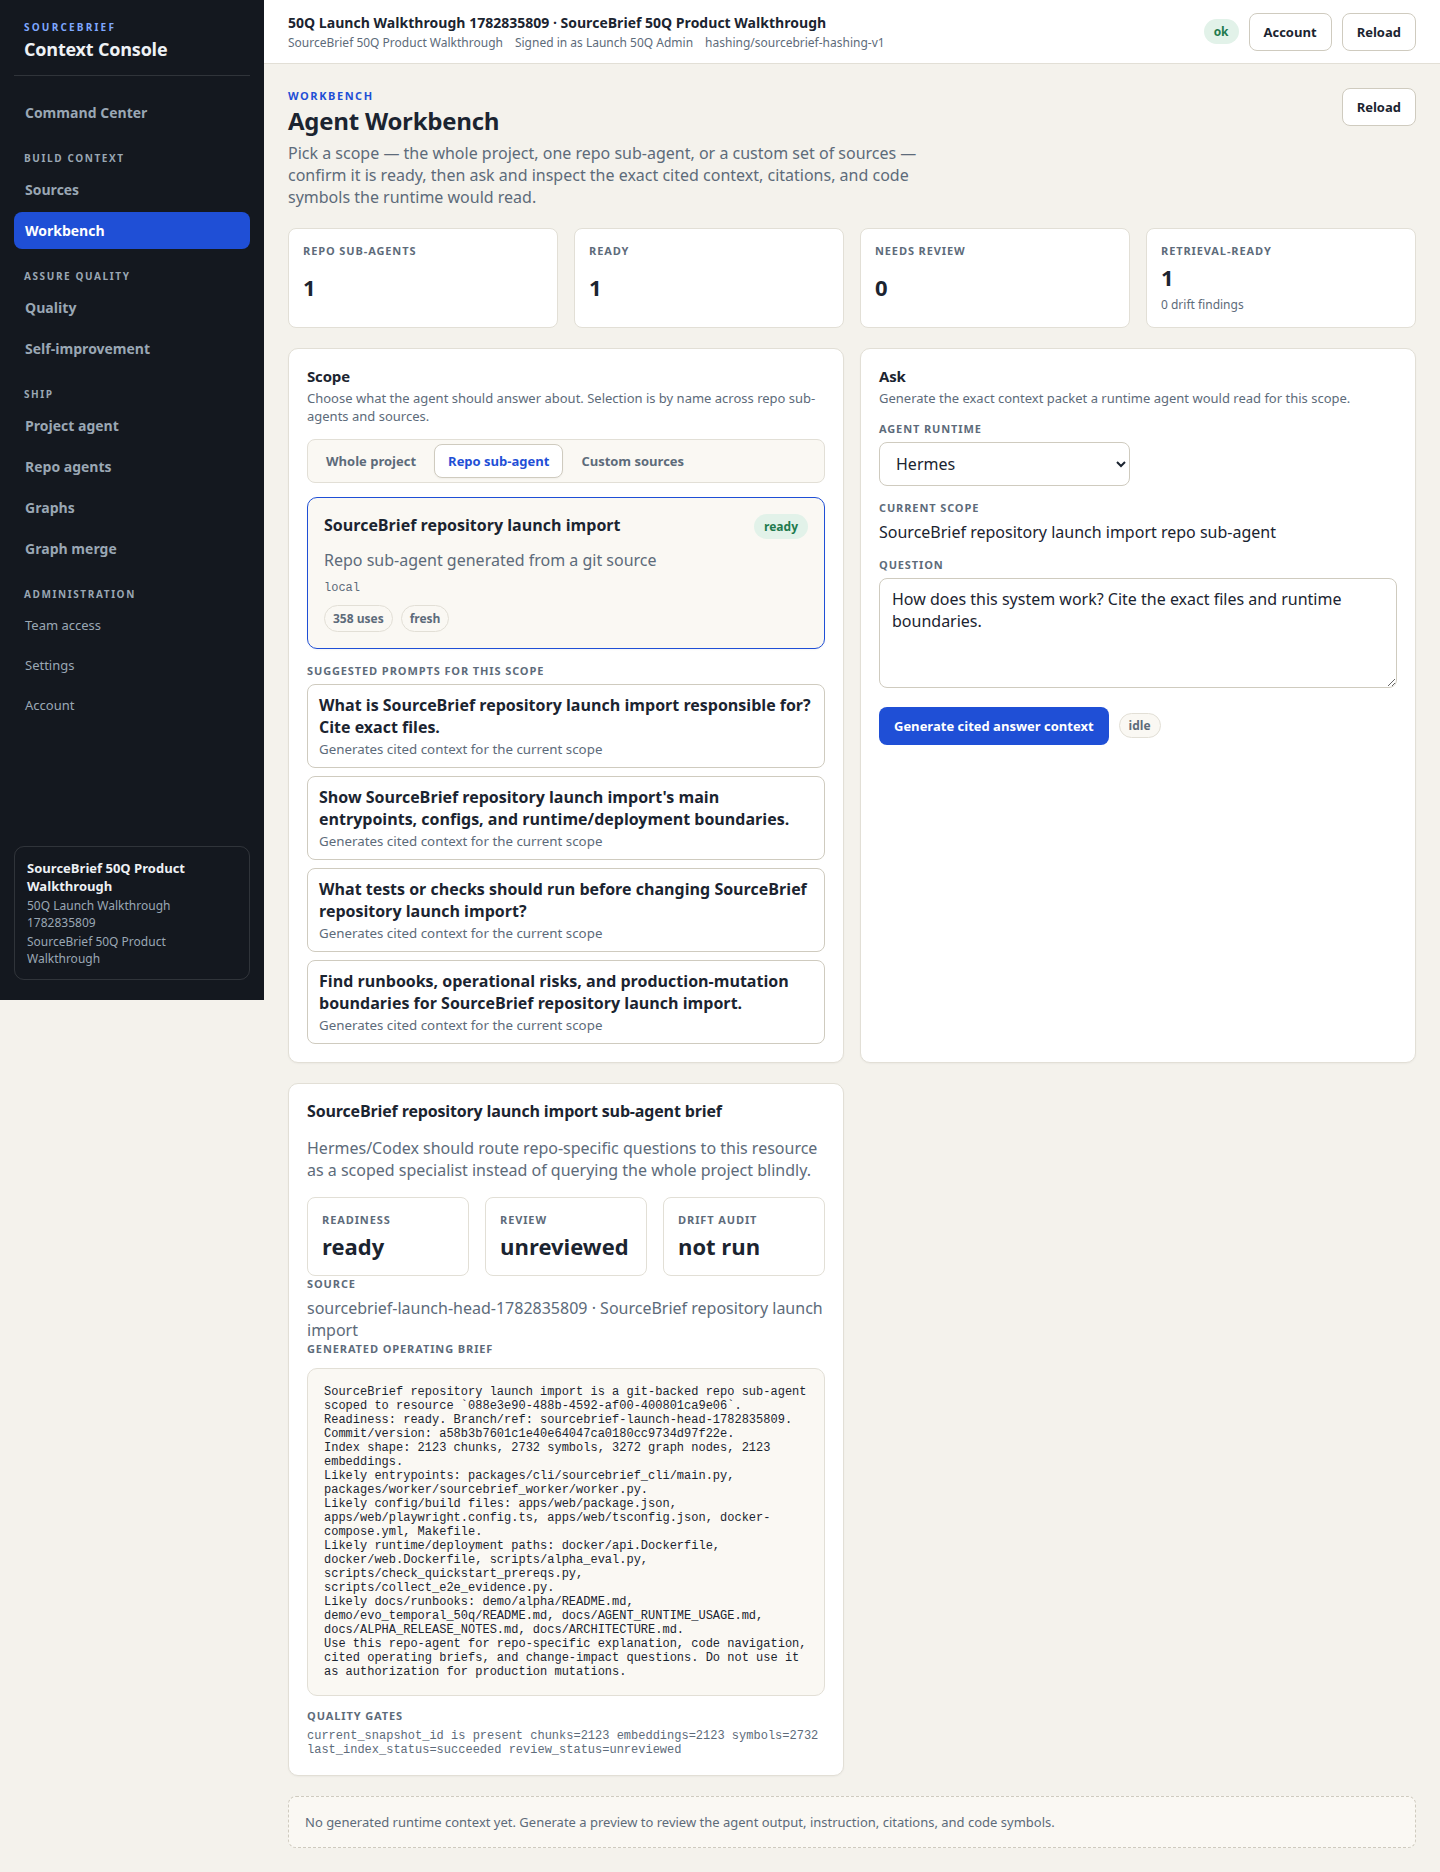
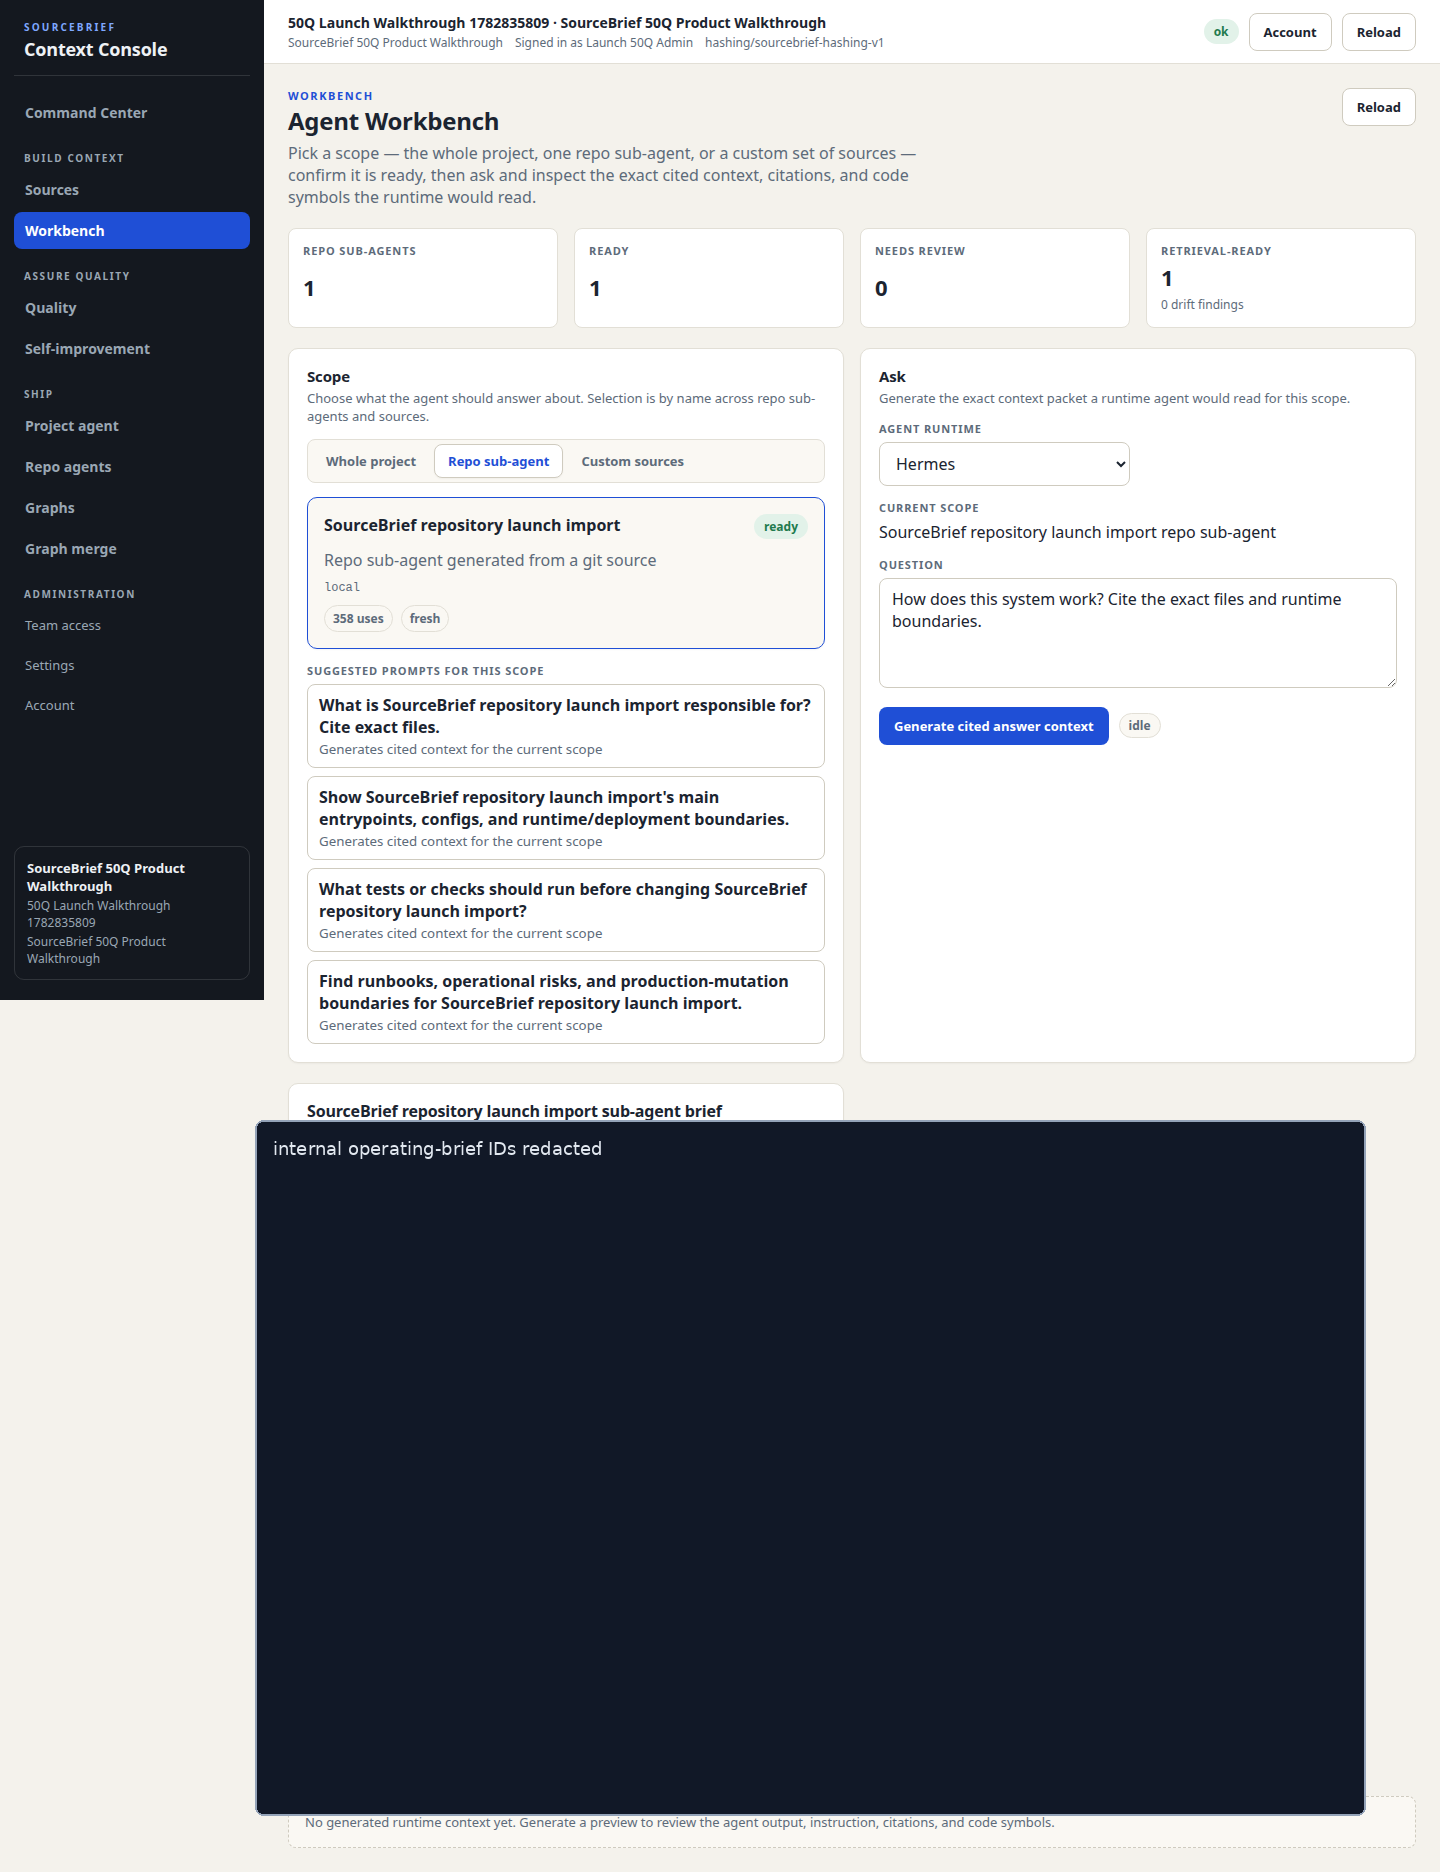
fix: harden 50q proof artifacts

Changed region(s): [[0.1562, 0.5887, 0.9688, 0.9915]]

diff --git a/tests/unit/test_launch_50q_walkthrough.py b/tests/unit/test_launch_50q_walkthrough.py
@@ -5,6 +5,8 @@ import json
 import sys
 from pathlib import Path
 
+import pytest
+
 ROOT = Path(__file__).resolve().parents[2]
 SCRIPT = ROOT / "scripts" / "launch_50q_walkthrough.py"
 QUESTIONS = ROOT / "examples" / "sourcebrief-launch-50q" / "questions.json"
@@ -311,3 +313,34 @@ def test_launch_50q_public_doc_links_operations_and_screenshots() -> None:
         assert name in doc
     assert "50Q launch proof with screenshots" in readme
     assert "screenshot inventory hashes" in proof
+
+
+def test_launch_50q_browser_session_requirement_fails_before_project_creation(monkeypatch, tmp_path: Path) -> None:
+    module = load_module()
+    calls: list[str] = []
+
+    class Args:
+        artifact_dir = tmp_path
+        question_bank = QUESTIONS
+        question_limit = 50
+        skip_compose = True
+        skip_screenshots = False
+        allow_risk = False
+        api_url = "http://api"
+        web_url = "http://web"
+
+    monkeypatch.setattr(module.argparse.ArgumentParser, "parse_args", lambda self: Args())
+    monkeypatch.setattr(module, "load_env_file", lambda path: {})
+    monkeypatch.setattr(module, "wait_http", lambda url: calls.append(f"wait:{url}"))
+    monkeypatch.setattr(module, "authenticate", lambda api_url, env_file: ({"X-User-Email": "[email redacted]"}, None, "dev_header_local_fallback"))
+
+    def create_should_not_run(*args, **kwargs):  # noqa: ANN002, ANN003
+        calls.append("create_walkthrough_project")
+        raise AssertionError("project creation must not run before browser-session validation")
+
+    monkeypatch.setattr(module, "create_walkthrough_project", create_should_not_run)
+
+    with pytest.raises(RuntimeError, match="browser screenshot proof requires"):
+        module.main()
+
+    assert "create_walkthrough_project" not in calls

diff --git a/scripts/launch_50q_walkthrough.py b/scripts/launch_50q_walkthrough.py
@@ -609,9 +609,9 @@ def main() -> int:
     wait_http(f"{args.web_url}/api/health")
 
     headers, session_token, auth_mode = authenticate(args.api_url, env_file)
-    workspace_id, workspace_name, project_id, project_name, resource_id, resource_name, index_run, commit = create_walkthrough_project(args.api_url, headers, ts)
     if session_token is None and not args.skip_screenshots:
         raise RuntimeError("browser screenshot proof requires a /auth/login session token; set admin credentials or pass --skip-screenshots for API-only RISK evidence")
+    workspace_id, workspace_name, project_id, project_name, resource_id, resource_name, index_run, commit = create_walkthrough_project(args.api_url, headers, ts)
     ctx = WalkthroughContext(args.api_url, args.web_url, headers, session_token, auth_mode, workspace_id, workspace_name, project_id, project_name, resource_id, resource_name, index_run)
     questions = load_questions(args.question_bank, args.question_limit)
     question_bank_sha256 = sha256_file(args.question_bank)

diff --git a/docs/evaluations/sourcebrief-launch-50q-20260630.md b/docs/evaluations/sourcebrief-launch-50q-20260630.md
@@ -72,8 +72,8 @@ Local artifact bundle: `artifacts/sourcebrief-launch-50q-210-20260630160727-reru
 | `02-dashboard.png` | `sha256:514f328ed2053dd0c79f050cf2922f189845791610e3978676035732a857baa4` | 240013 |
 | `03-selection-settings.png` | `sha256:60895009db79ed5b7f43d9a8795e897009789cc8b849b79a8115c3d0b2ffca7e` | 145950 |
 | `04-import-sources.png` | `sha256:dd8a025e90c962c8422a3c7f0039799b035d02a5d7e7dc04fc1b7702d3f54eb2` | 405748 |
-| `05-workbench-citations.png` | `sha256:2e3492963b4fb5d8dff67936c1dcc14e810256bc6bf8ea228565e6bae1cc0c0e` | 363456 |
-| `06-agent-profile.png` | `sha256:a7acc9e1489f67d35633da3199c1c53c7267931cd651cfcdec82faeeba378616` | 858349 |
+| `05-workbench-citations.png` | `sha256:0ef765cc0b19a936315765b6290b31e06fc9a78904c2073fd0d53946fe213836` | 238014 |
+| `06-agent-profile.png` | `sha256:2549bb1299e4a9e39a31835cc6d760a1a83bb5d669da06a0941a7214ea0d807c` | 490687 |
 | `07-eval-report.png` | `sha256:cebf85bfc5c019f69f5ecd697961235ca53d9d98b8e0a8563df23929e42da36b` | 326617 |
 
 ## Browser console/network transcript
@@ -107,6 +107,37 @@ The raw transcript stays in the ignored local artifact bundle at `browser/consol
 7. Exercise MCP `tools/list`, MCP `sourcebrief.get_agent_context`, MCP `sourcebrief.grep_code`, and CLI `sourcebrief --json search` using name-first workspace/project/resource selectors.
 8. Capture Playwright screenshots plus browser console/network transcript.
 9. Inspect screenshots for visible tokens, raw UUIDs, or private local paths before committing this sanitized screenshot set.
+
+
+## Reproducible isolated-stack convention
+
+Future #210-style proof reruns should not rely on the default shared `make compose-up` stack when the report claims isolated random ports/fresh volumes. Use an ignored per-run env file and tear the stack down after capture:
+
+```bash
+RUN_ID="launch-50q-$(date -u +%Y%m%d%H%M%S)"
+COMPOSE_PROJECT_NAME="sourcebrief-${RUN_ID}"
+SOURCEBRIEF_API_PORT="$(python - <<'PY'
+import socket
+s=socket.socket(); s.bind(('127.0.0.1',0)); print(s.getsockname()[1]); s.close()
+PY
+)"
+SOURCEBRIEF_WEB_PORT="$(python - <<'PY'
+import socket
+s=socket.socket(); s.bind(('127.0.0.1',0)); print(s.getsockname()[1]); s.close()
+PY
+)"
+SOURCEBRIEF_DEV_AUTH=false \
+COMPOSE_PROJECT_NAME="$COMPOSE_PROJECT_NAME" \
+SOURCEBRIEF_API_PORT="$SOURCEBRIEF_API_PORT" \
+SOURCEBRIEF_WEB_PORT="$SOURCEBRIEF_WEB_PORT" \
+python scripts/launch_50q_walkthrough.py \
+  --api-url "http://127.0.0.1:${SOURCEBRIEF_API_PORT}" \
+  --web-url "http://127.0.0.1:${SOURCEBRIEF_WEB_PORT}" \
+  --artifact-dir "artifacts/${RUN_ID}"
+COMPOSE_PROJECT_NAME="$COMPOSE_PROJECT_NAME" docker compose down -v
+```
+
+The concrete `.env`/credential values and raw artifact bundle remain ignored local files; the public proof should commit only redacted screenshots, hashes, transcript summary counts, and the exact commit SHA under test.
 
 ## Notes
 

diff --git a/docs/CLAIM_LEDGER.md b/docs/CLAIM_LEDGER.md
@@ -18,7 +18,7 @@ This ledger keeps launch-facing wording tied to current proof. It is intentional
 | Local alpha scope | SourceBrief is a local alpha for development and product exploration. | Current | `docs/STATUS.md`, `docs/QUICKSTART.md`, `docker compose config -q`, quickstart doctor. | Not public-internet or enterprise-SaaS ready. |
 | Cited agent context | SourceBrief serves cited, permission-scoped context through HTTP/API, Workbench, CLI, and MCP-compatible runtime paths. | Current | `make qa-smoke`, `scripts/qa_smoke.py`, `docs/PROOF_ARTIFACTS.md` automated proof rows. | Current launch signoff still requires a fresh #209 evidence bundle. |
 | README-driven startup | A user can start the local Compose stack and reach API/web health from documented commands. | Current | `README.md`, `docs/QUICKSTART.md`, `make quickstart-doctor`, `make quickstart-ready` path. | Remote-browser setups must configure browser-visible API URL/CORS before build. |
-| Screenshot-backed 50Q walkthrough | Current 50Q walkthrough shows the local-alpha proof path with session login, 50/50 mechanical pass, and clean browser console/network transcript. | RISK | `docs/evaluations/sourcebrief-launch-50q-20260630.md`, `docs/assets/screenshots/launch-50q-20260630/`. | Current proof is useful but #234 tracks runner fail-fast/token cleanup, screenshot UUID hygiene, and isolated-stack reproducibility gaps before this becomes a fully automated/public proof gate. |
+| Screenshot-backed 50Q walkthrough | Current 50Q walkthrough shows the local-alpha proof path with session login, 50/50 mechanical pass, clean browser console/network transcript, UUID-safe public screenshots, and fail-fast browser-session validation. | RISK | `docs/evaluations/sourcebrief-launch-50q-20260630.md`, `docs/assets/screenshots/launch-50q-20260630/`, `scripts/launch_50q_walkthrough.py`, `tests/unit/test_launch_50q_walkthrough.py`. | Runner/artifact hygiene has been hardened; #208 still needs a fresh declared-SHA launch synthesis before this lane is upgraded to launch PASS. |
 | Real-corpus retrieval quality | SourceBrief has current real-corpus regression evidence with explicit RISK/PARTIAL accounting. | RISK | `docs/evaluations/real-corpus-regression-20260630/`, `examples/awesome-agent-harness-50q/README.md`. | #214 rerun is current but not PASS: providers are dev-quality, corpora are partial, and temporal-memory gate is tracked by #229. |
 | Self-improvement surface | SourceBrief has an artifact-first self-improvement loop with browser proof for MVP smoke, redacted review history/detail, sleep dry-run, and no-silent-mutation boundaries. | Current | `docs/evaluations/self-improvement-browser-20260630/README.md`, `docs/SELF_IMPROVEMENT.md`, `docs/SELF_IMPROVEMENT_MVP_SMOKE.md`, `make qa-smoke` self-improvement path. | Do not claim recurring autonomous learning or silent product mutation; #231 tracks random-port CORS hardening for future proof-stack automation. |
 | Runtime install/apply | Runtime setup produces dry-run plans; local apply is explicit, guarded, receipt-backed, and rollbackable. | Current | `docs/RUNTIME_INSTALL_PLAN.md`, `docs/AGENT_RUNTIME_USAGE.md`, CLI tests. | Real runtime config mutation remains an explicit local operator action. `sourcebrief doctor` is a lightweight smoke test; use generated runtime validators for full REST/MCP/citation validation. |